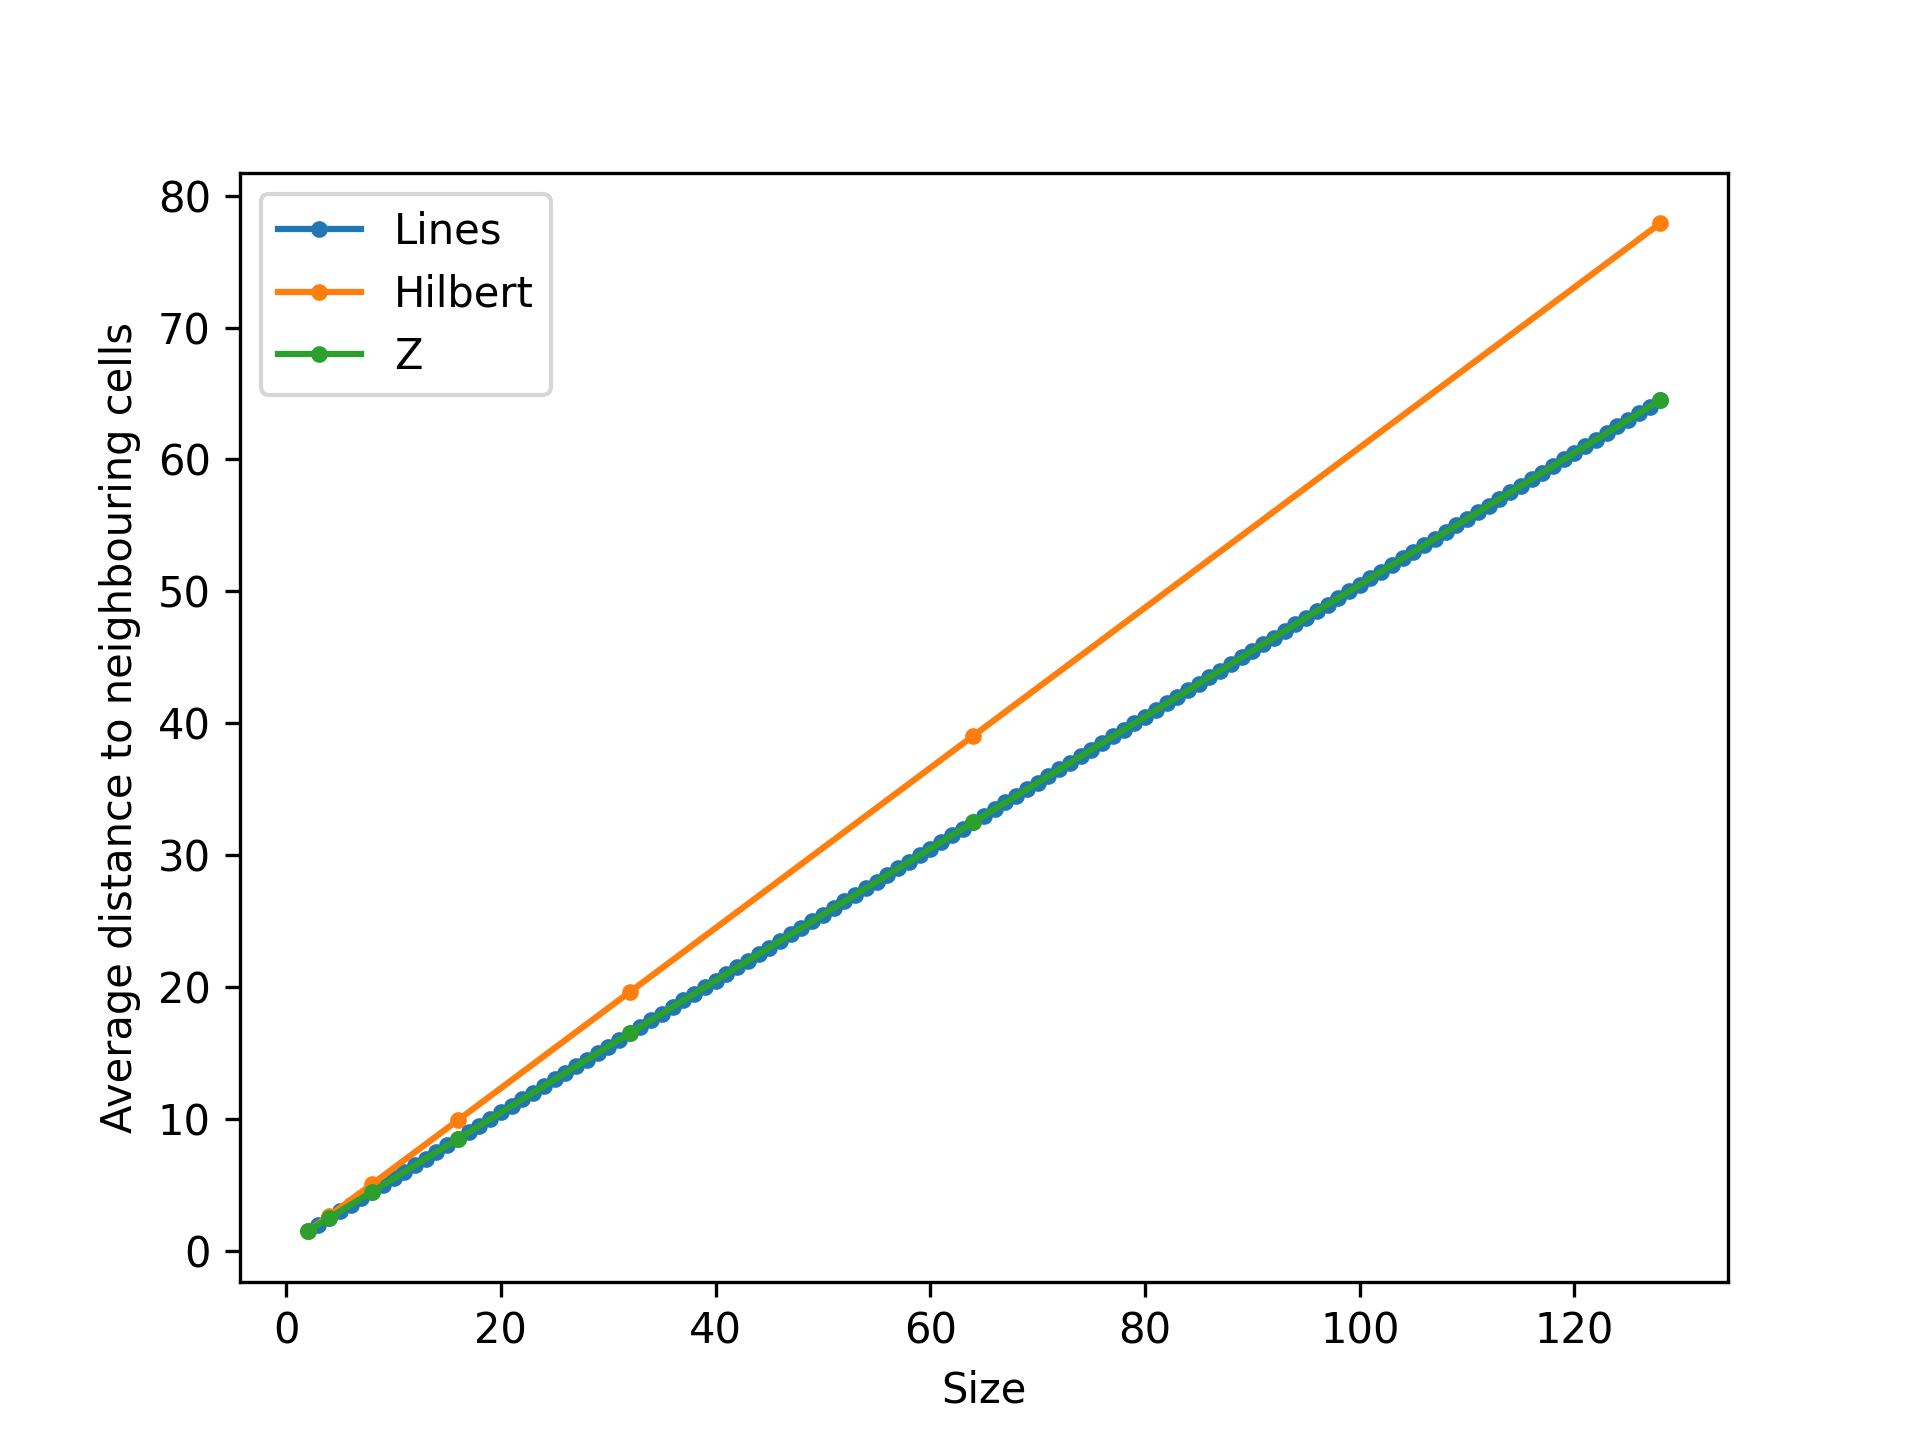
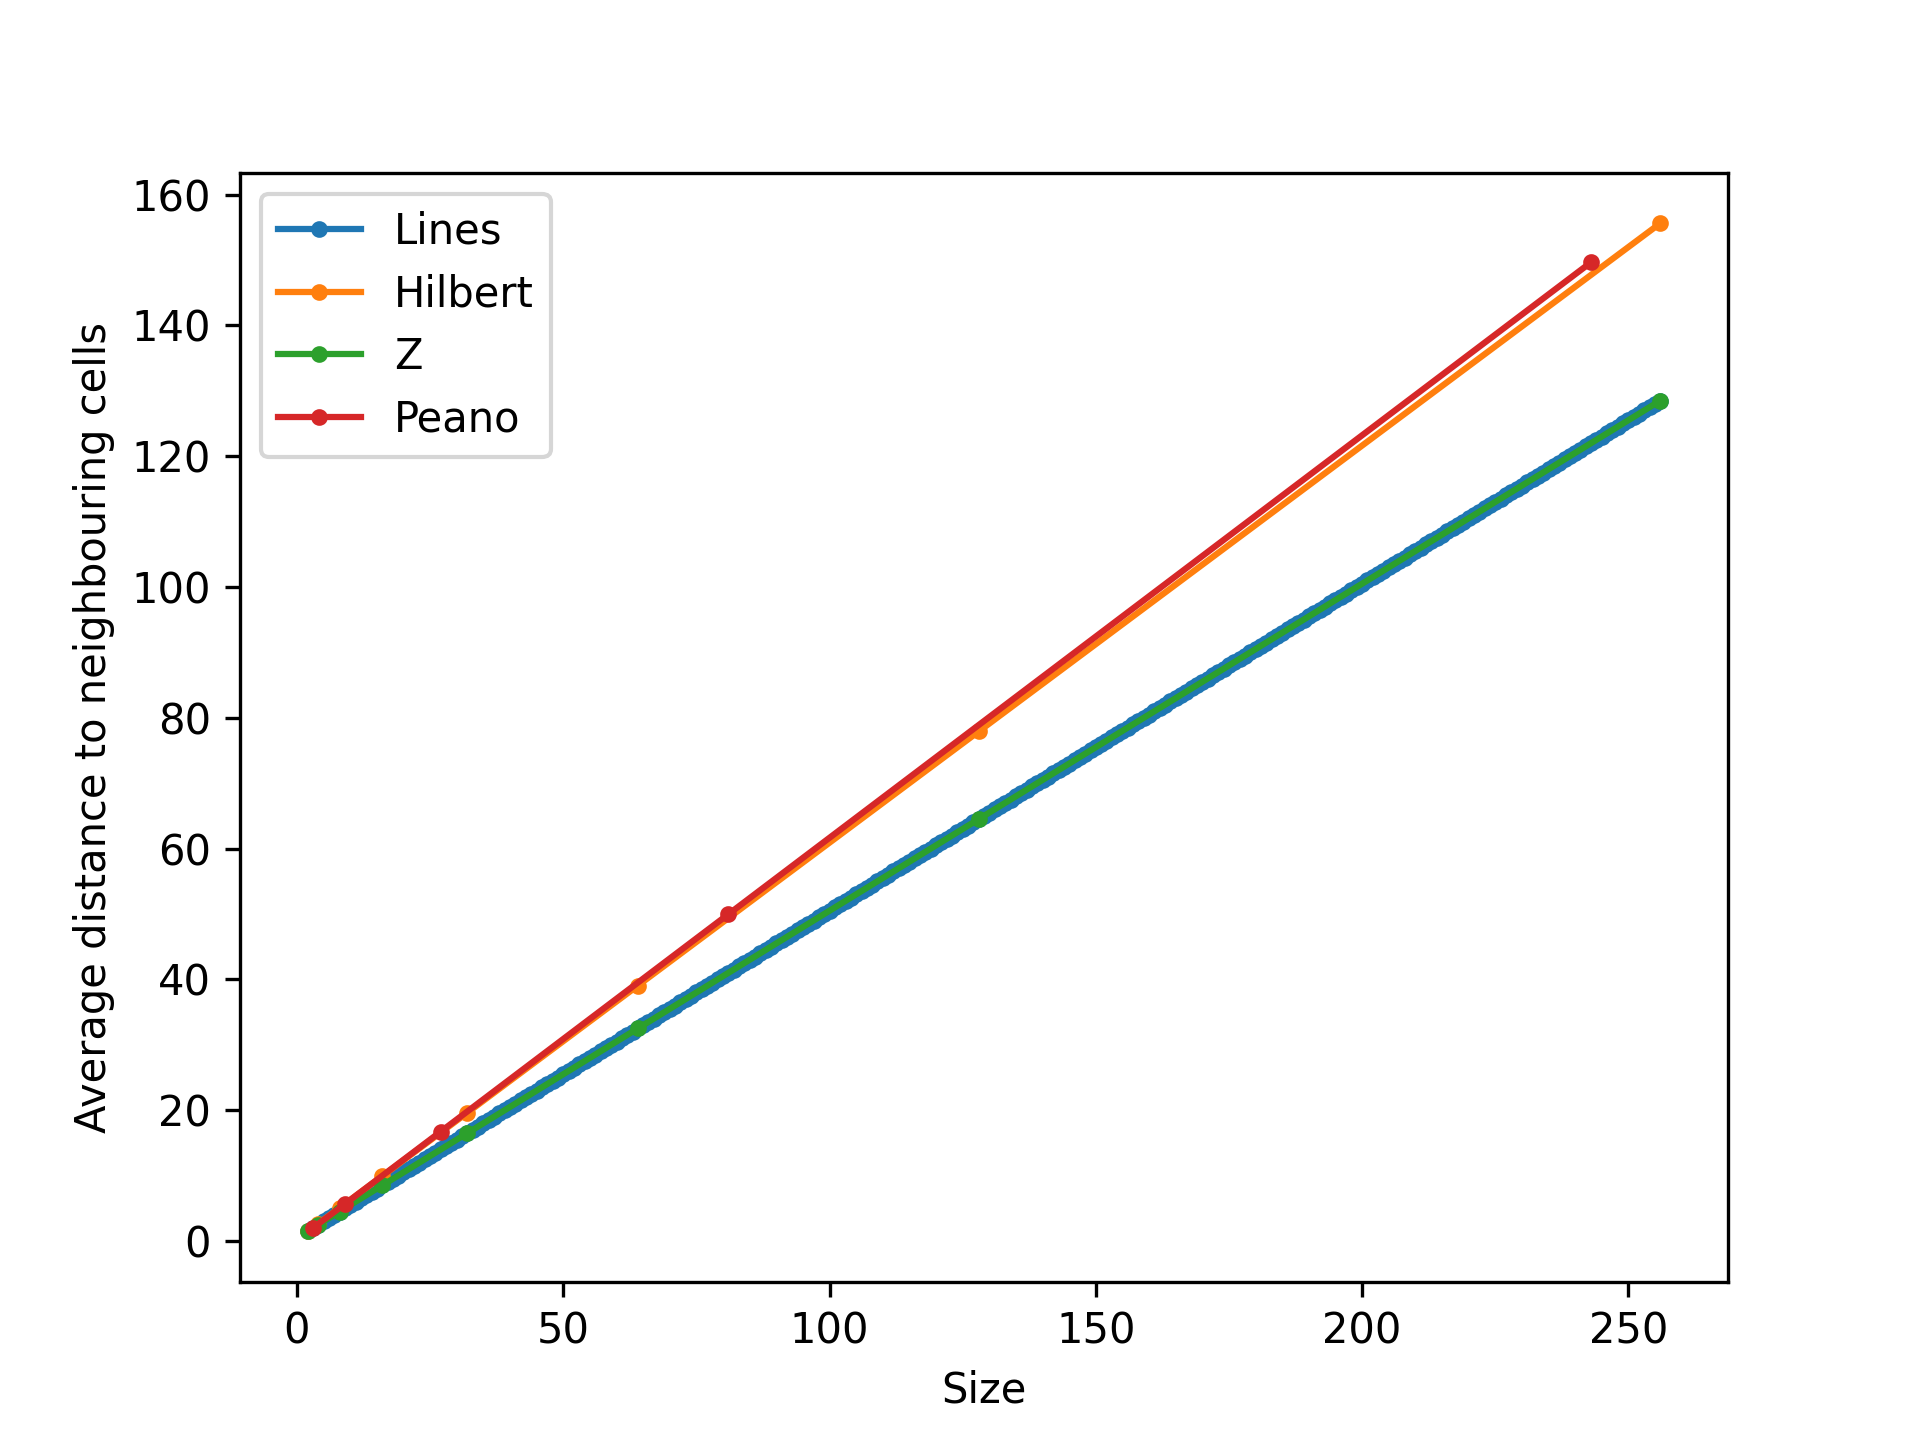
peano

diff --git a/main.py b/main.py
@@ -39,6 +39,23 @@ class Z(Curve): # Z curve
     def get_matrix(self):
         return self.create(self.size)
     
+class Peano(Curve): # Peano curve
+    def create(self, iterations):
+        if iterations == 1:
+            return np.array([[2, 3, 8], [1, 4, 7], [0, 5, 6]])
+        else:
+            m = self.create(iterations-1)
+            mh = np.fliplr(m)
+            mv = np.flipud(m)
+            mvh = np.fliplr(mv)
+            m = np.block([[m+2*m.size, mv+3*m.size, m+8*m.size],
+                          [mh+1*m.size, mvh+4*m.size, mh+7*m.size],
+                          [m+0*m.size, mv+5*m.size, m+6*m.size]])
+            return m
+        
+    def get_matrix(self):
+        return self.create(self.size)
+    
         
 def calculate_average_distance(m):
     len = m.shape[0]
@@ -58,17 +75,21 @@ def calculate_average_distance(m):
 
 
 if __name__ == "__main__":
-    max_size = 128
+    max_size = 256
 
     lines_data = [(i, calculate_average_distance(Lines(i).get_matrix())) for i in range(2, max_size+1)]
     plt.plot(*zip(*lines_data), label="Lines", marker=".")
 
-    max_size_log = int(np.log2(max_size))
-    hilbert_data = [(2**i, calculate_average_distance(Hilbert(i).get_matrix())) for i in range(1, max_size_log+1)]
+    max_size_log2 = int(np.log2(max_size))
+    hilbert_data = [(2**i, calculate_average_distance(Hilbert(i).get_matrix())) for i in range(1, max_size_log2+1)]
     plt.plot(*zip(*hilbert_data), label="Hilbert", marker=".")
 
-    z_data = [(2**i, calculate_average_distance(Z(i).get_matrix())) for i in range(1, max_size_log+1)]
+    z_data = [(2**i, calculate_average_distance(Z(i).get_matrix())) for i in range(1, max_size_log2+1)]
     plt.plot(*zip(*z_data), label="Z", marker=".")
+
+    max_size_log3 = int(np.emath.logn(3, max_size))
+    peano_data = [(3**i, calculate_average_distance(Peano(i).get_matrix())) for i in range(1, max_size_log3+1)]
+    plt.plot(*zip(*peano_data), label="Peano", marker=".")
 
     plt.legend()
     plt.xlabel("Size")
